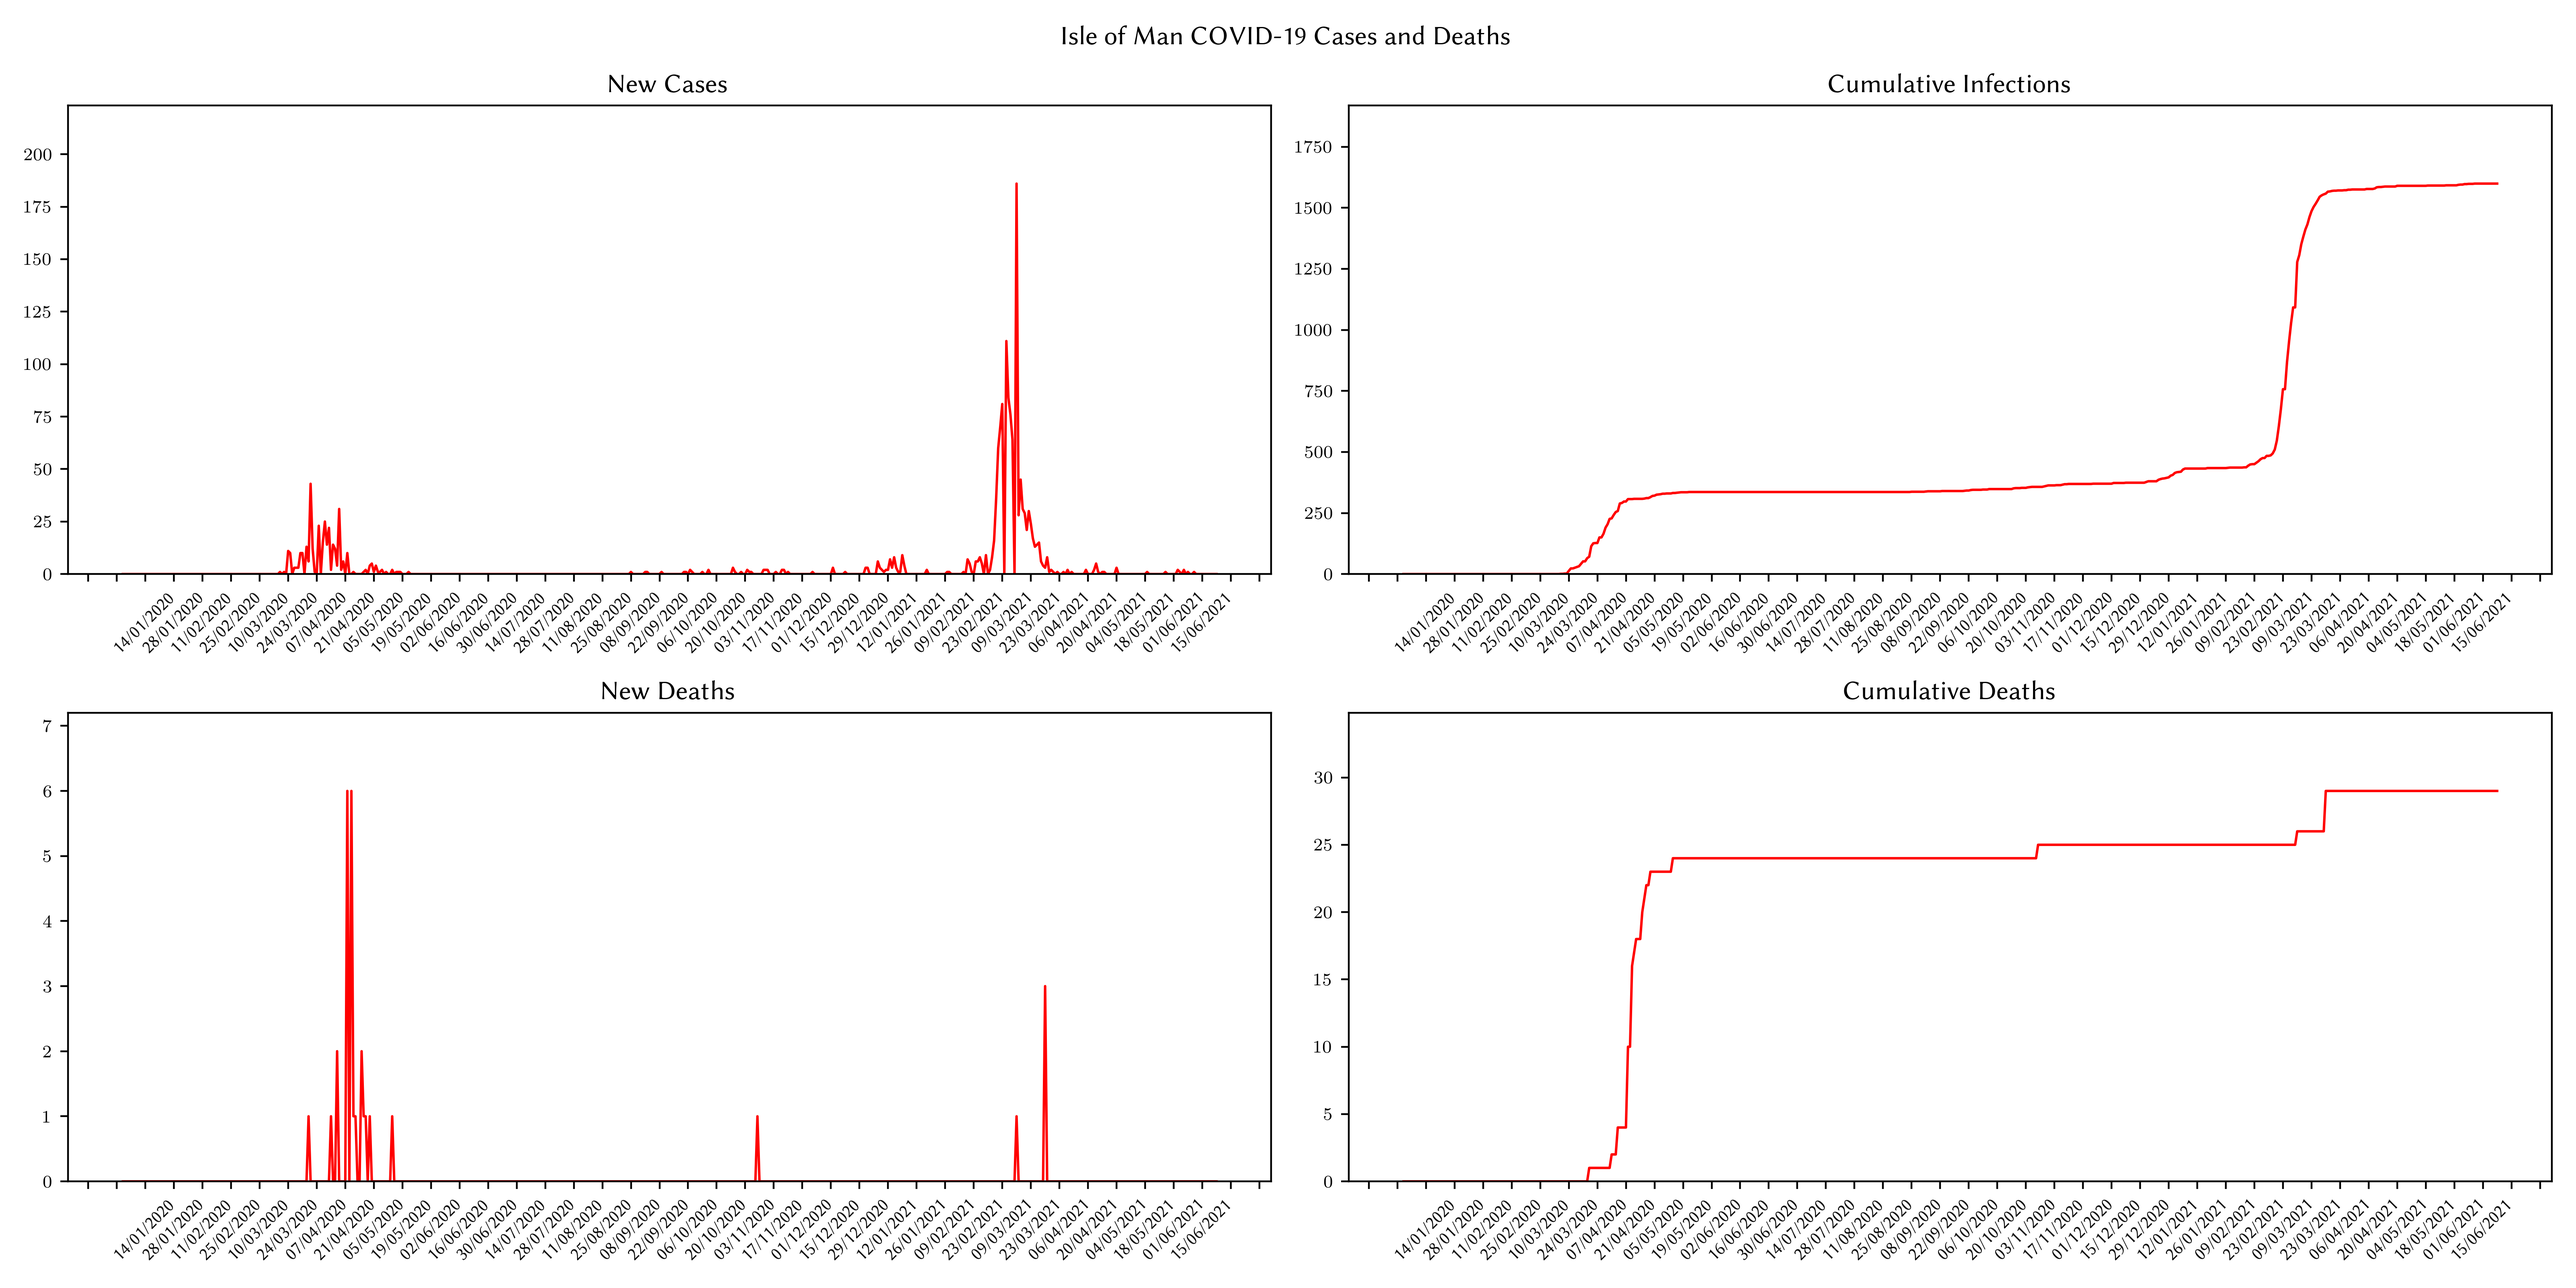
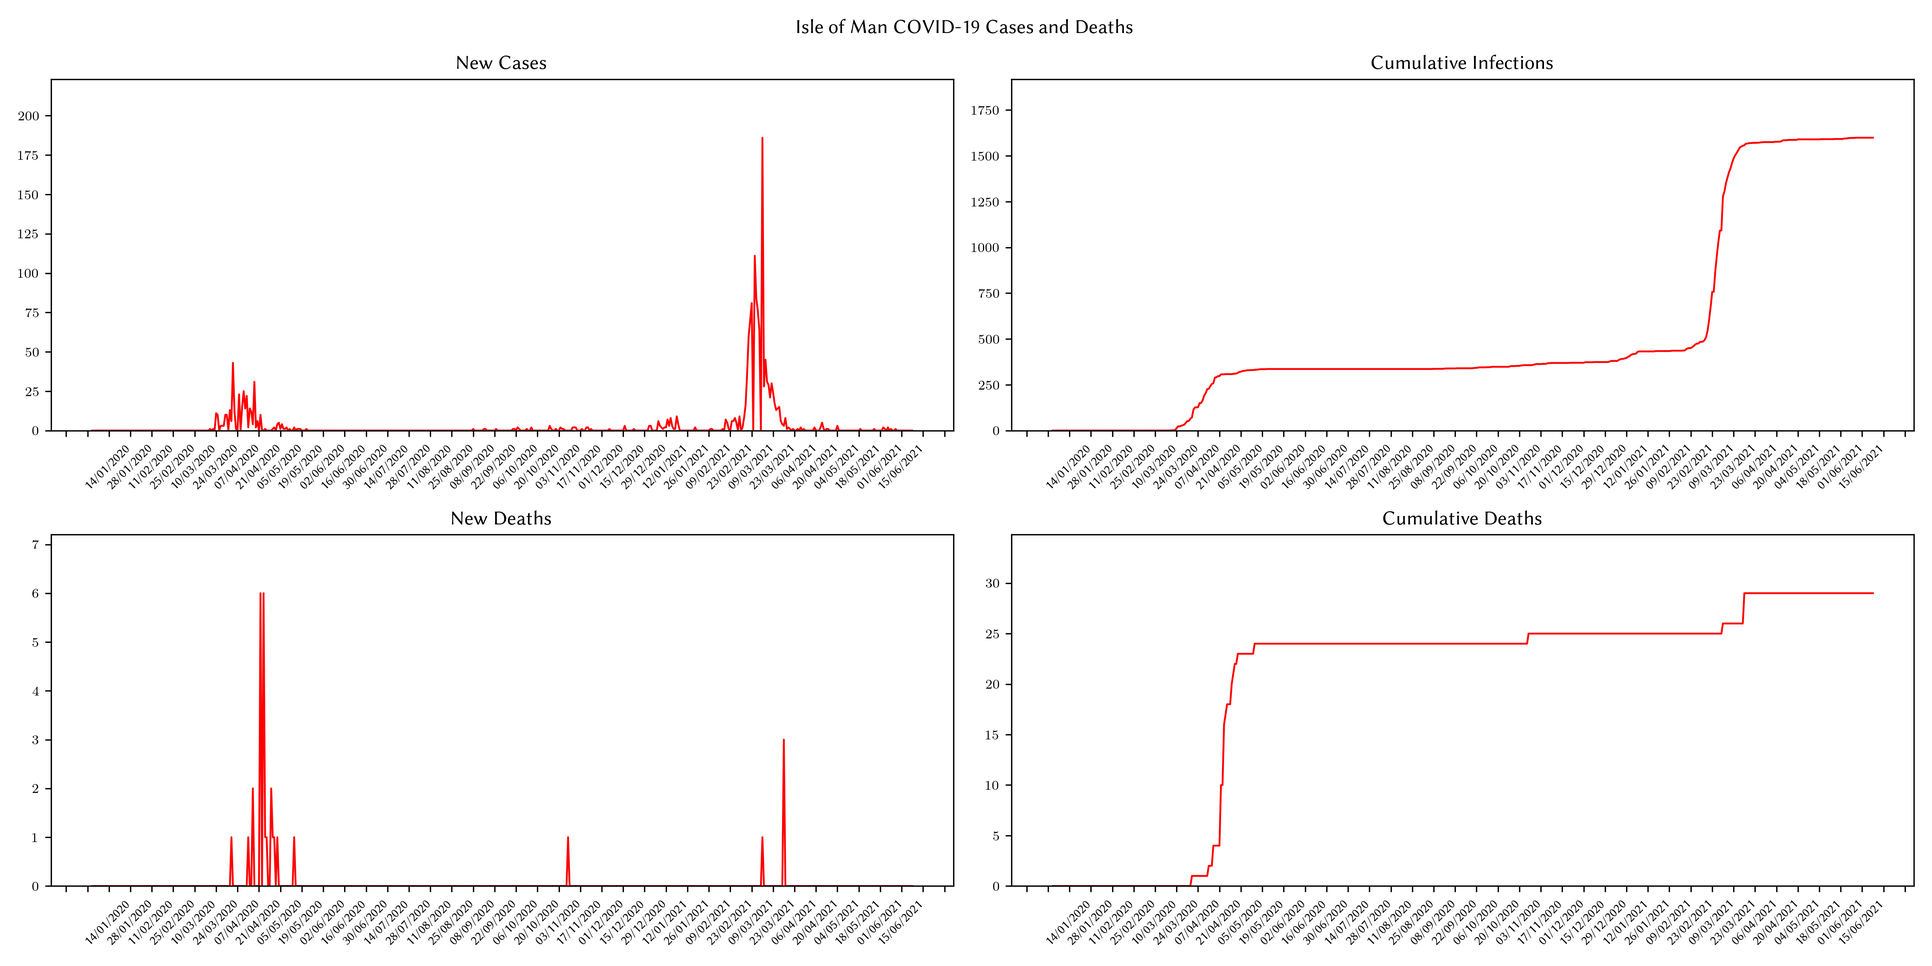
Updated resolution of Isle of Man COVID-19 data plots

diff --git a/causcumber/scenarios/isle_of_man_outbreak/format_true_isle_of_man_data.py b/causcumber/scenarios/isle_of_man_outbreak/format_true_isle_of_man_data.py
@@ -61,7 +61,7 @@ def plot_from_df(covid_19_df, title, output_png_path, start_date=None, end_date=
     fig.suptitle(title)
     fig.tight_layout()
     fig.show()
-    fig.savefig(output_png_path, dpi=400, format="png")
+    fig.savefig(output_png_path, dpi=300, format="png")
 
 
 if __name__ == "__main__":
